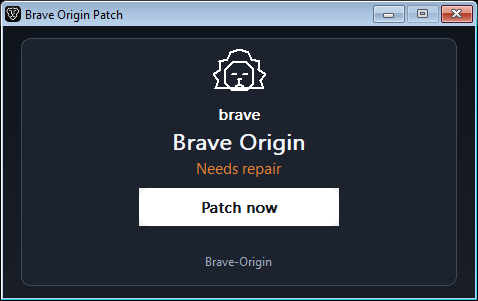
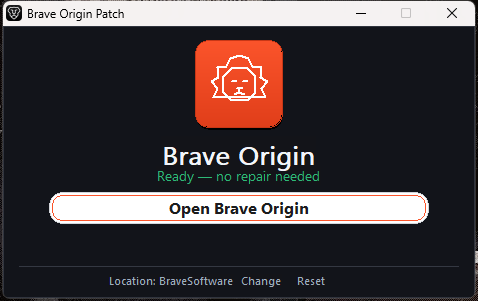
release: Brave Origin Patch v1.2

Changed region(s): [[0.0586, 0.1196, 0.9372, 0.7774], [0.0, 0.0, 1.0, 1.0], [0.0586, 0.8372, 0.9372, 0.9568]]

diff --git a/README.md b/README.md
@@ -9,12 +9,14 @@ changes Brave's own files.
 > licensing.
 
 
-## Download 
+## Download v1.2
 
 Grab the single-file app from the
 [Releases page](https://github.com/ChathurangaBW/Brave-Origin/releases/latest):
 
 **`BraveOriginPatch.exe`** — no installer, no dependencies, no network. Just run it.
+
+**v1.2:** fixes the **Open Brave Origin** button (proven: Brave window count +1).
 
 ## How to use
 

diff --git a/CHANGELOG.md b/CHANGELOG.md
@@ -1,5 +1,8 @@
 # Changelog
 
+## 1.2 - 2026-09-17
+- Fixed Open Brave Origin button (ShellExecute return checked; proven Brave window count +1, fixture-isolated with screenshots).
+
 ## 1.1 - 2026-09-17
 - Renamed to Brave Origin Patch; Scan reports Ready or Needs repair.
 - Patch now saves a timestamped backup first. Unofficial; not affiliated with Brave.
